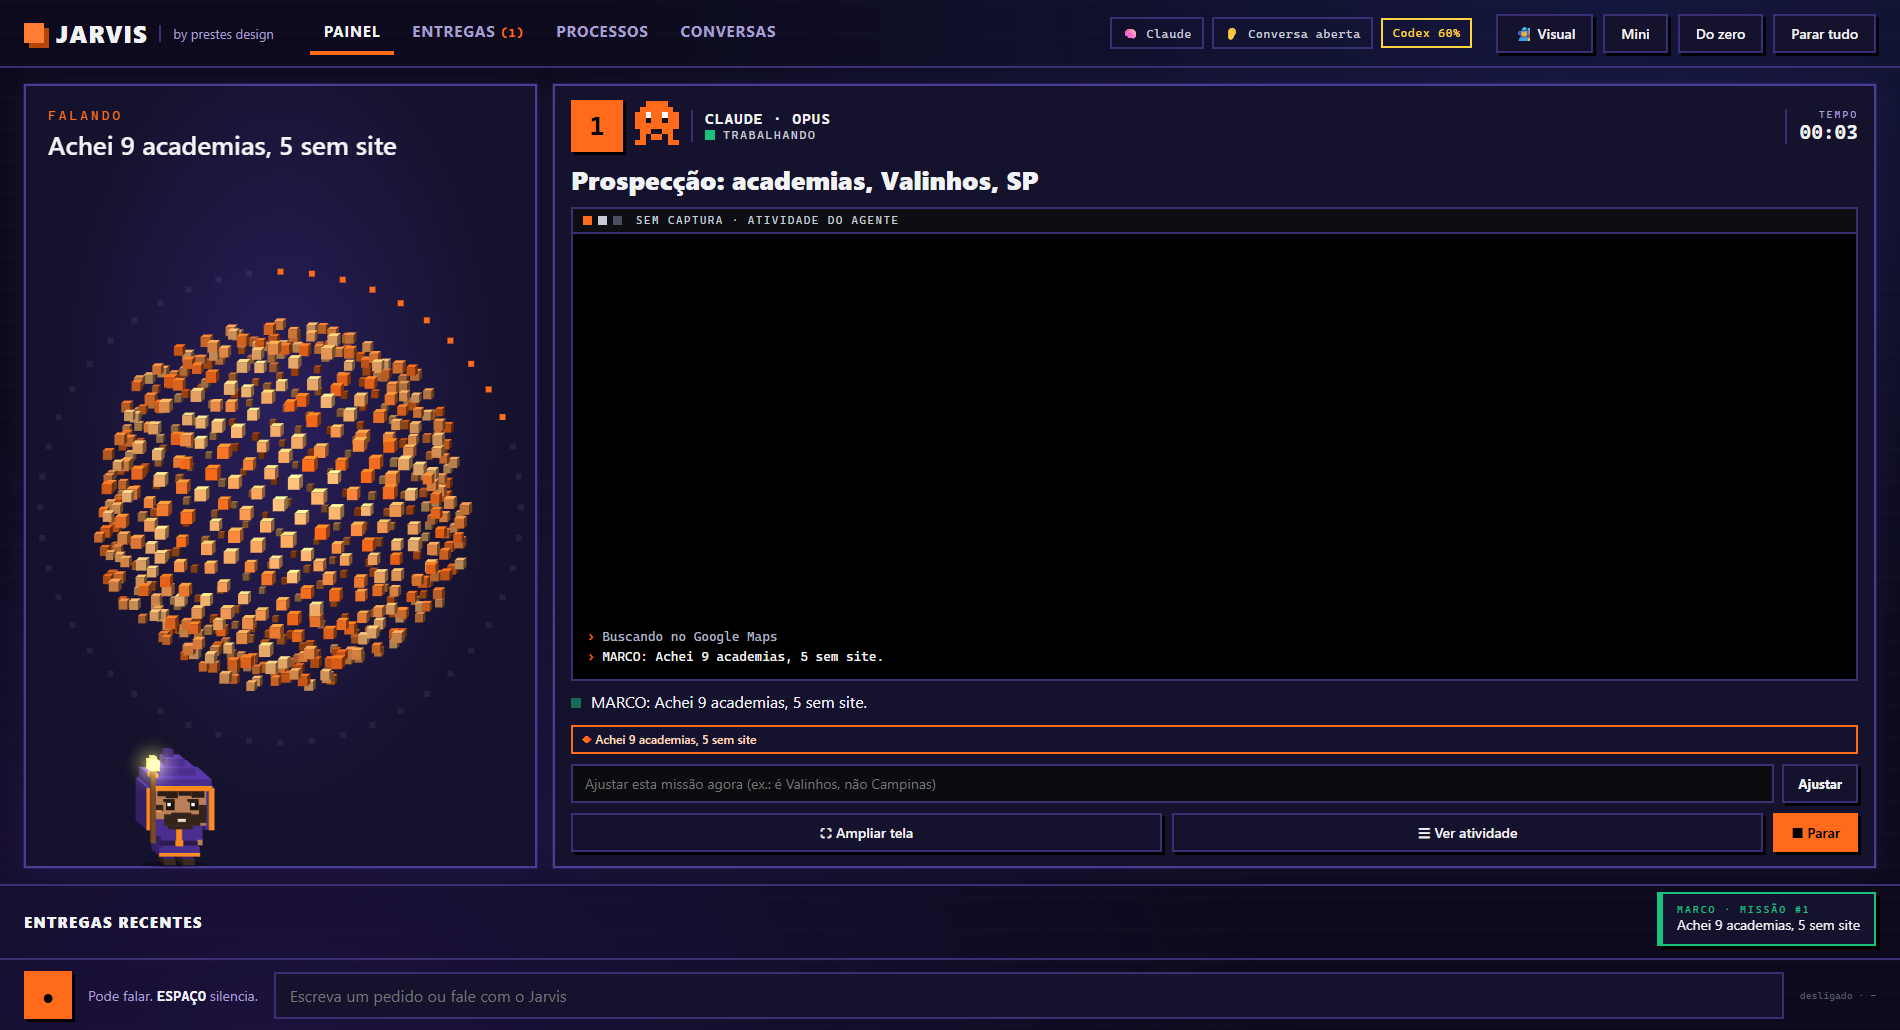
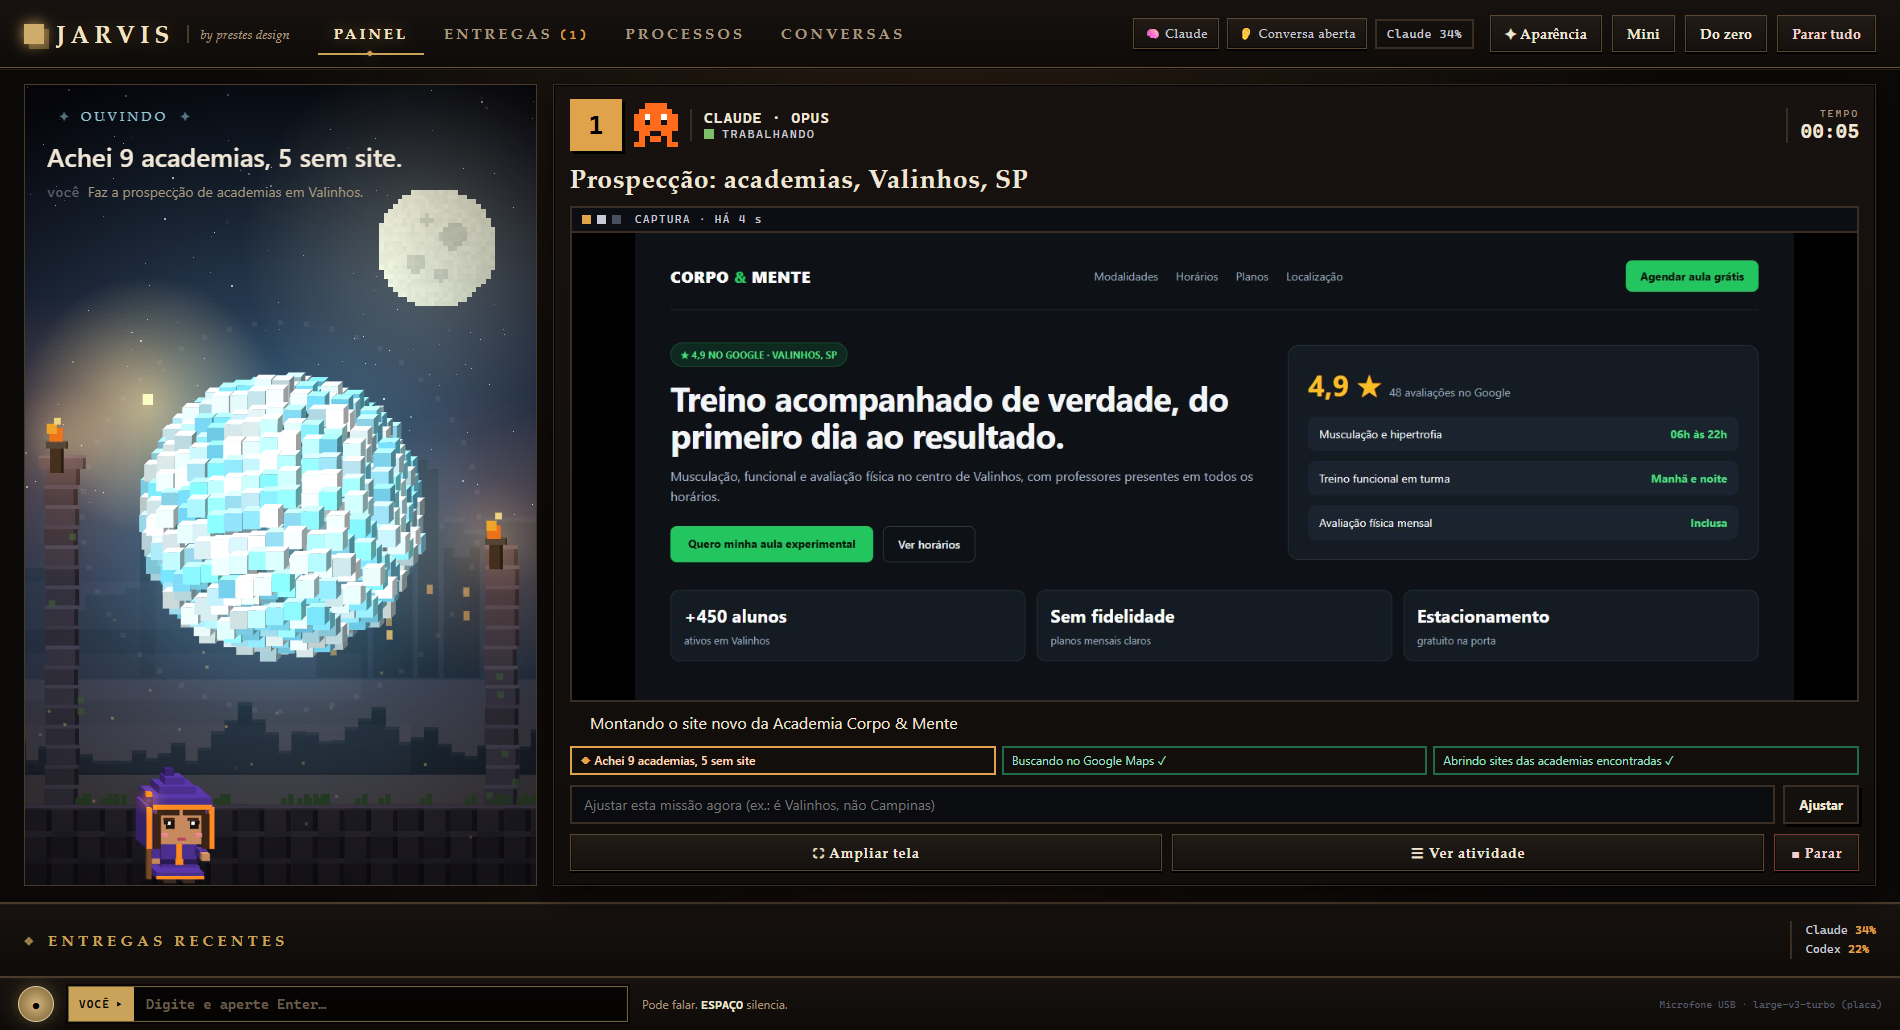
Atualiza capturas do painel no tema Abismo e corrige contraste do botão Parar

diff --git a/web/estilo.css b/web/estilo.css
@@ -466,8 +466,8 @@ footer{min-width:0;overflow:hidden;display:flex;align-items:center;gap:16px;padd
 #app[data-tema="abismo"] .bt.forte,#app[data-tema="abismo"] .pj .forte,#app[data-tema="abismo"] .proc-bt .rodar,#app[data-tema="abismo"] #galFiltros button.on{
   background:linear-gradient(color-mix(in srgb,var(--ouro) 85%,#fff),color-mix(in srgb,var(--ouro) 75%,#000));border-color:color-mix(in srgb,var(--ouro) 60%,#fff);color:#1c1006;text-shadow:0 1px 0 #ffffff40;box-shadow:inset 0 1px 0 #fff6,0 0 14px #e0a24a40,0 2px 0 #000}
 #app[data-tema="abismo"] .bt.forte:hover,#app[data-tema="abismo"] .proc-bt .rodar:hover{animation:brasaBt 1.4s ease-in-out infinite}
-#app[data-tema="abismo"] button.perigo{border-color:#7a3a30}
-#app[data-tema="abismo"] button.perigo:hover{background:linear-gradient(#5a1e18,#3a120e);color:#ffd8d0;border-color:#d0574a}
+#app[data-tema="abismo"] button.perigo,#app[data-tema="abismo"] .m-botoes .parar{border-color:#7a3a30;color:#f3d2cc}
+#app[data-tema="abismo"] button.perigo:hover,#app[data-tema="abismo"] .m-botoes .parar:hover{background:linear-gradient(#5a1e18,#3a120e);color:#ffd8d0;border-color:#d0574a}
 #app[data-tema="abismo"] .perigo.armado{background:linear-gradient(#a8352a,#6a1c14);border-color:#ff8a7a;color:#fff}
 /* painéis com cantos de ouro */
 #app[data-tema="abismo"] .bloco,#app[data-tema="abismo"] .missao,#app[data-tema="abismo"] .proc,#app[data-tema="abismo"] .hist,#app[data-tema="abismo"] .conv,#app[data-tema="abismo"] .pj{
